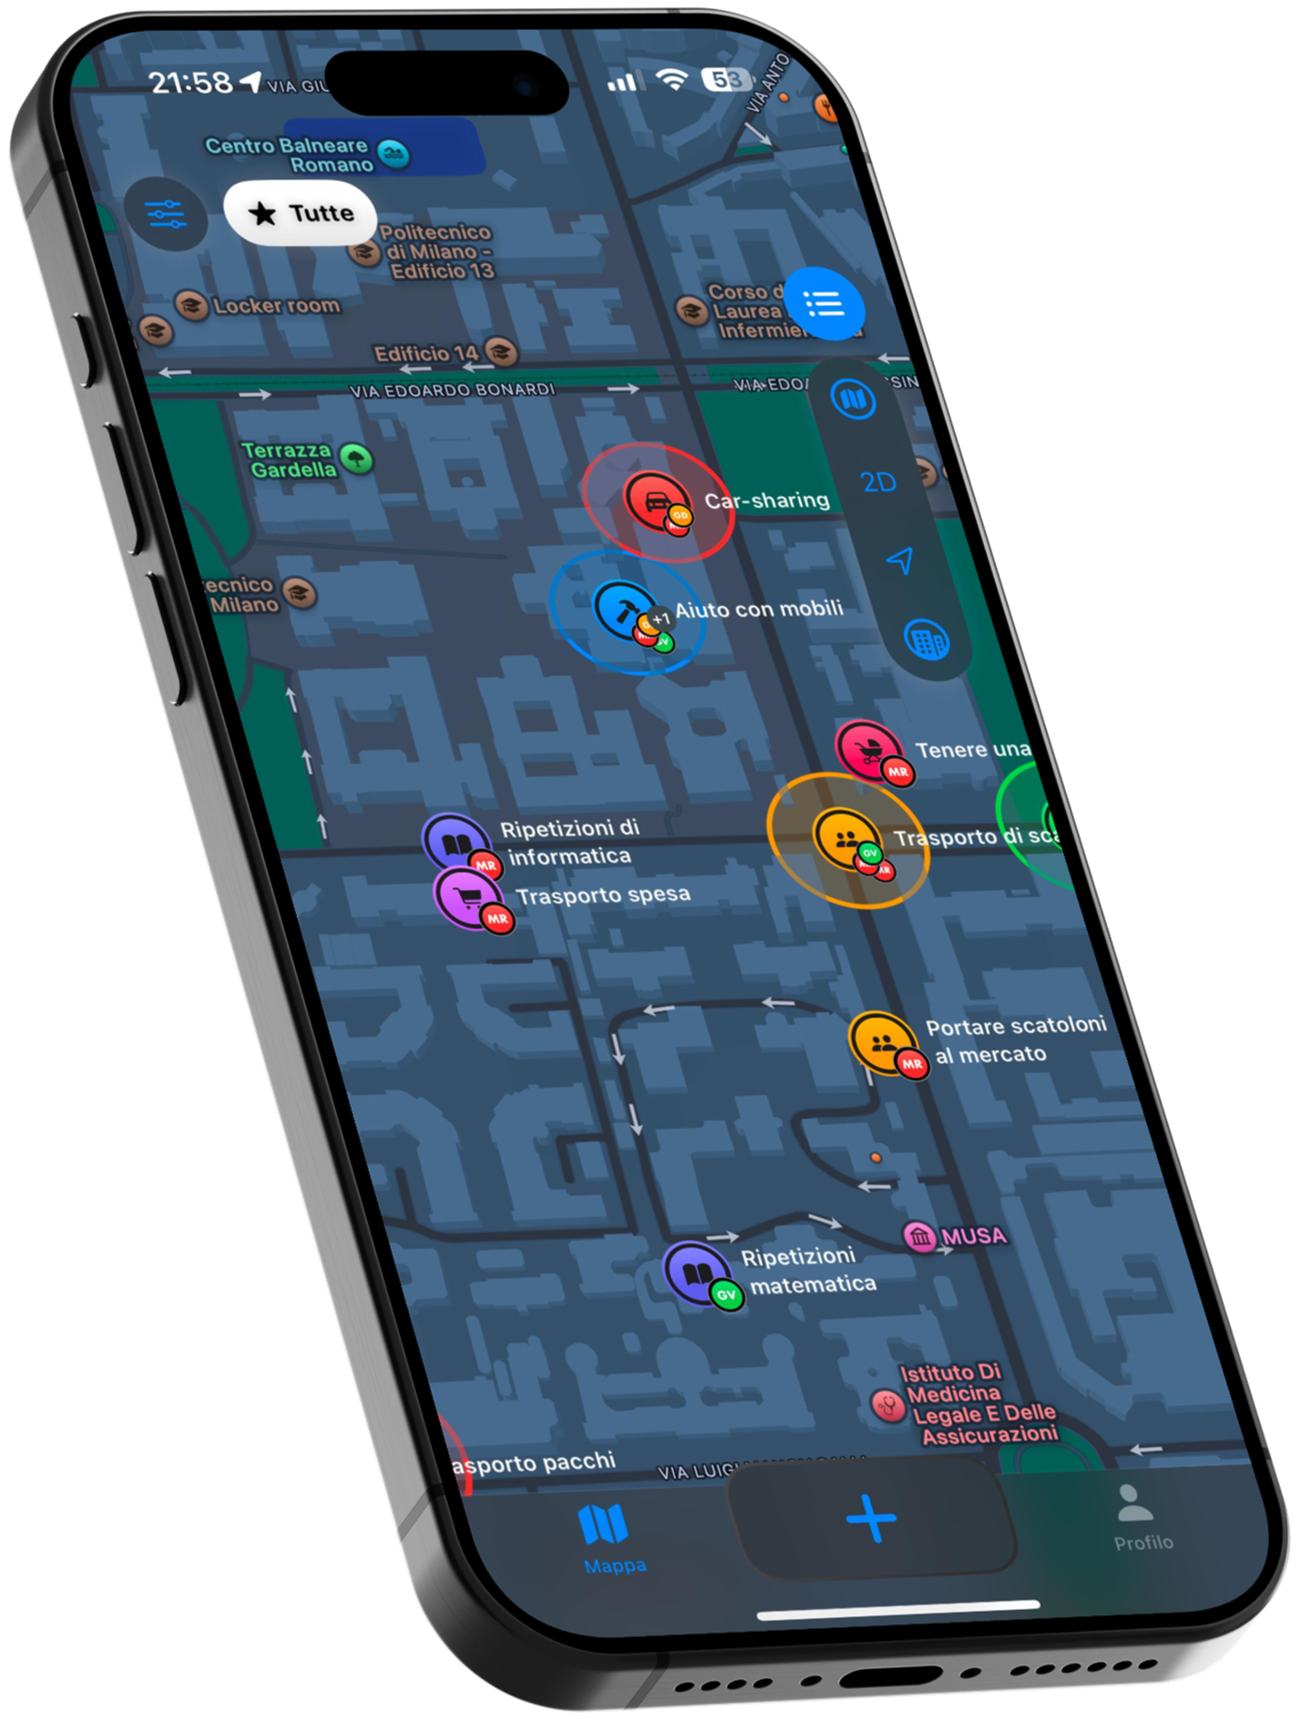
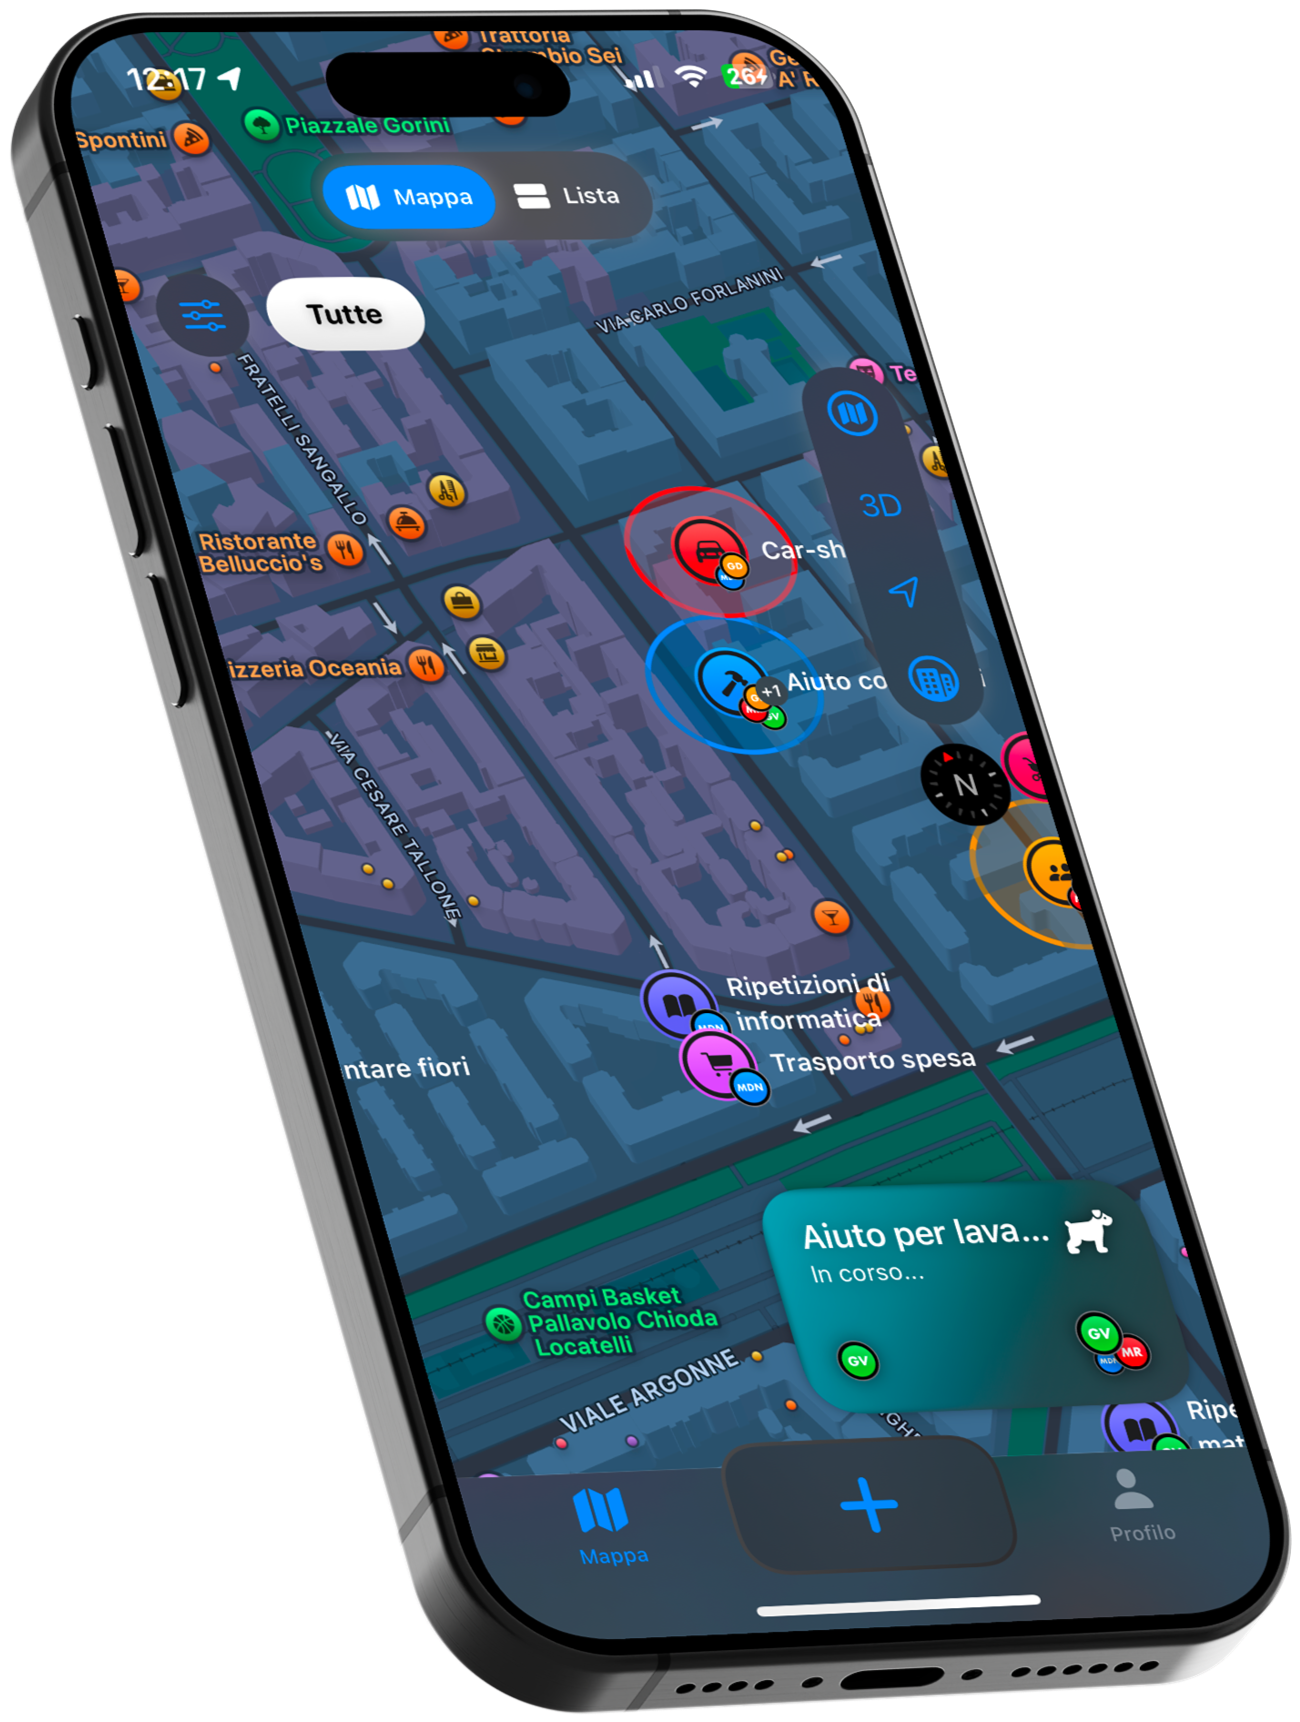
Updated main image
Removed older images for main section and added a new one

diff --git a/docs/index.html b/docs/index.html
@@ -58,7 +58,7 @@
 
             <section id="main" class="main">
                 <article>
-                    <img src="imgs/iPhone_mockup.png">
+                    <img src="imgs/mockupiPhone15pro.png">
                     <div class="header">
                         <div class="row">
                             <h5>Dai</h5>
